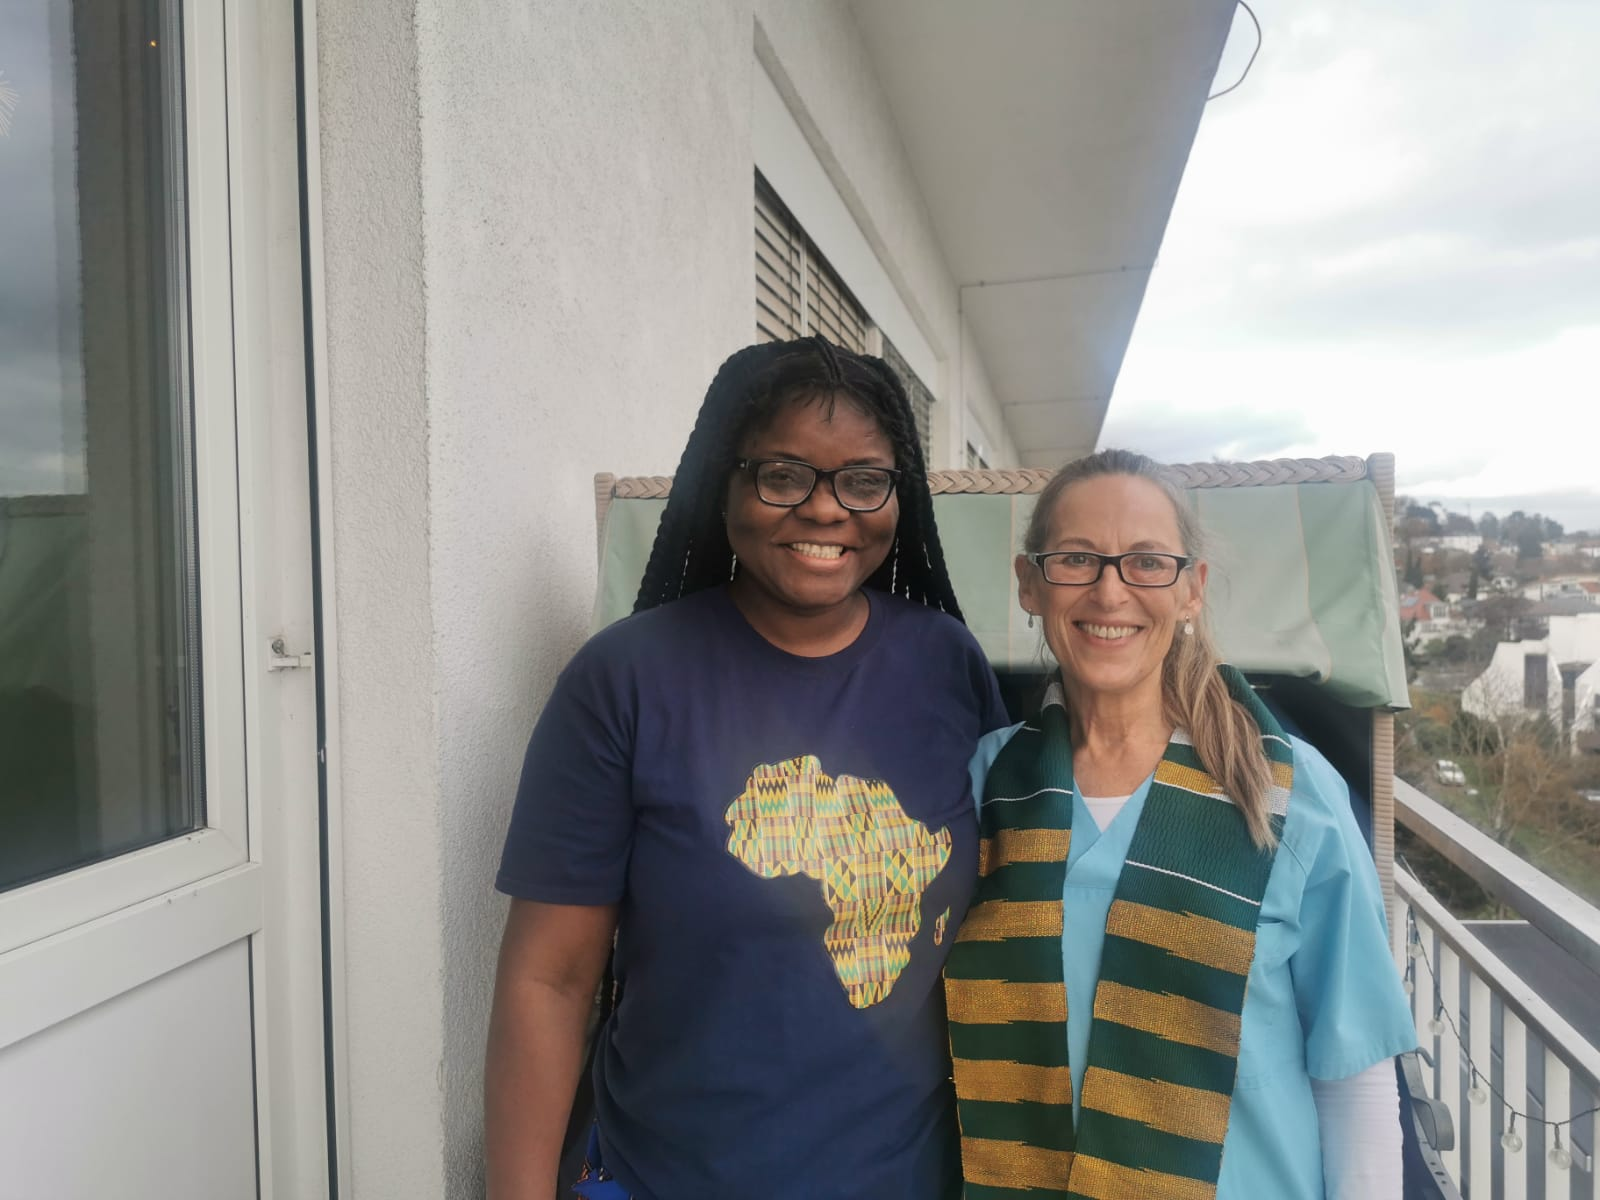
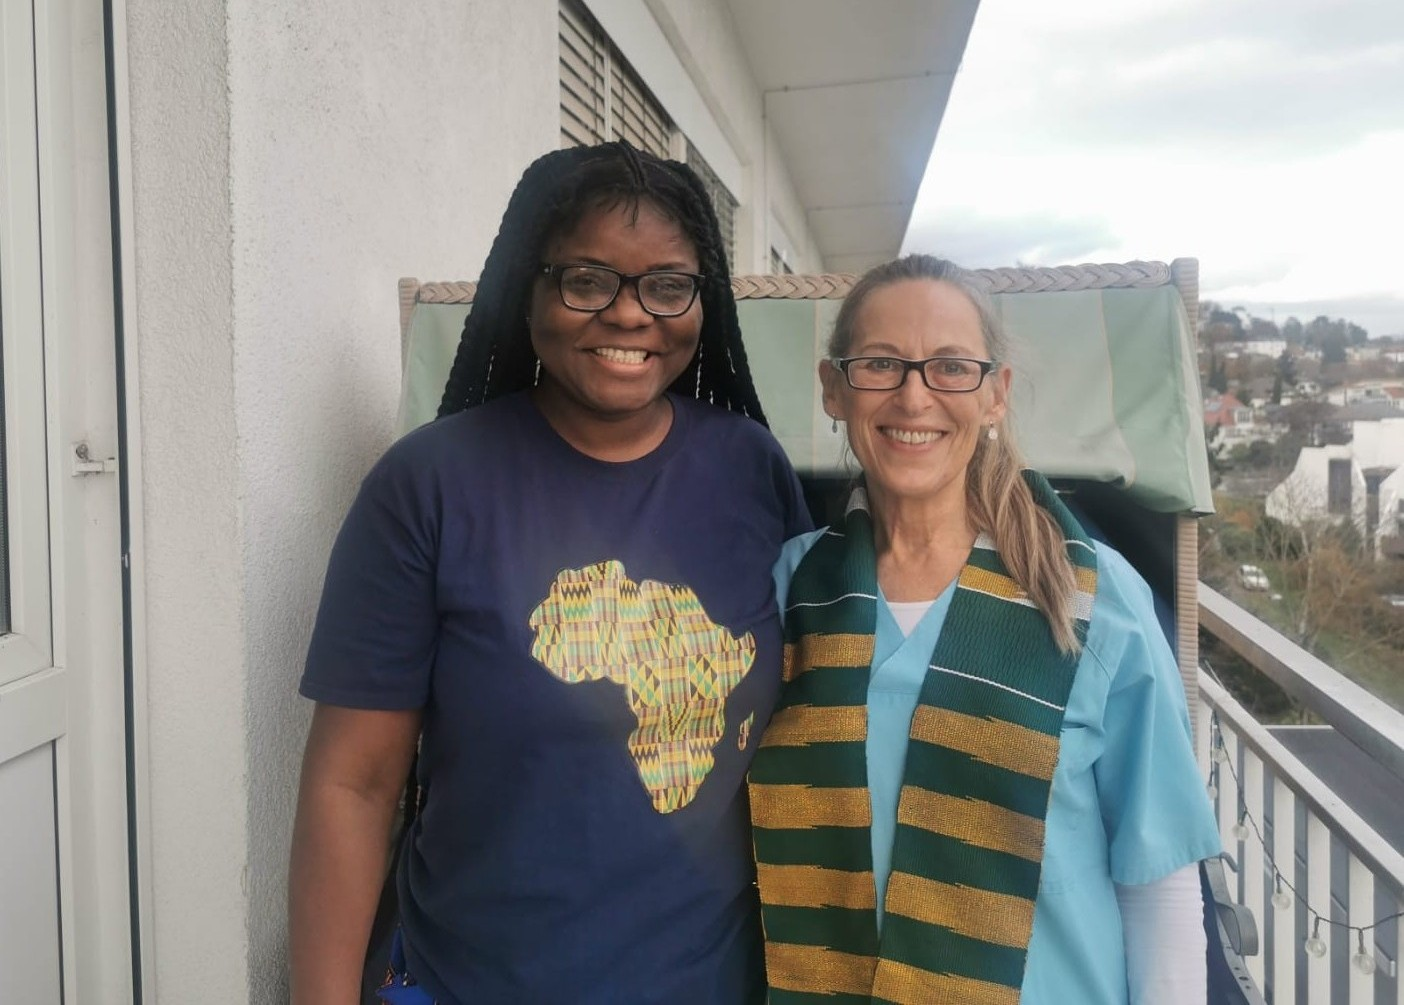
carousel slider images update

diff --git a/index.html b/index.html
@@ -133,6 +133,9 @@
             <img class="w-100" src="images/carousel-6.jpg" alt="Image" />
           </div>
           <div class="carousel-item">
+            <img class="w-100" src="images/gallery-7.jpg" alt="Image" />
+          </div>
+          <div class="carousel-item">
             <img class="w-100" src="images/carousel-3.jpg" alt="Image" />
           </div>
         </div>

diff --git a/css/style.css b/css/style.css
@@ -329,7 +329,7 @@ h6,
 
 @media (max-width: 768px) {
   .logo {
-    width: 72px;
+    width: 70px;
   }
 }
 
